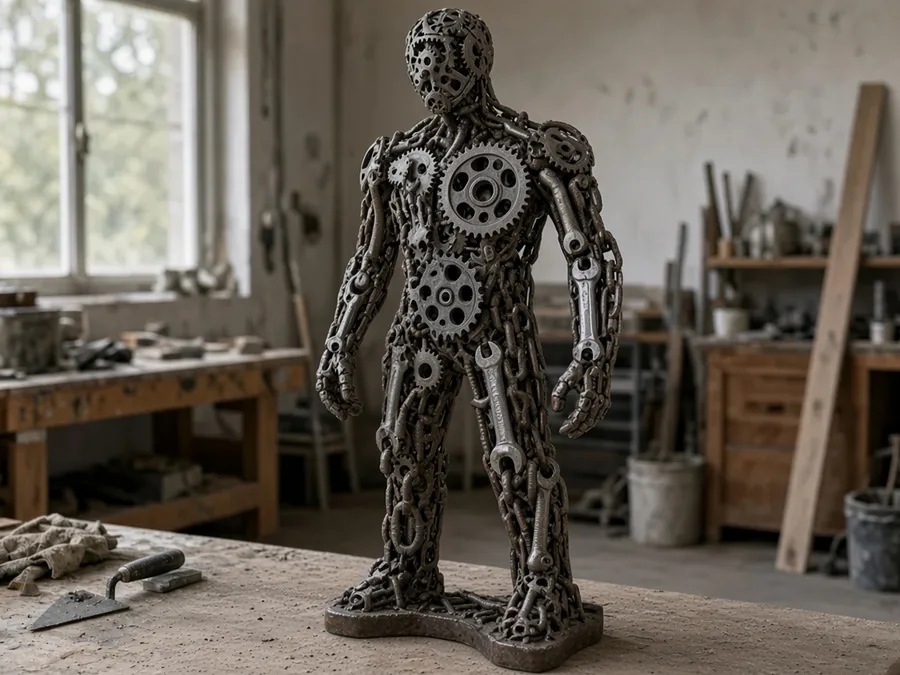
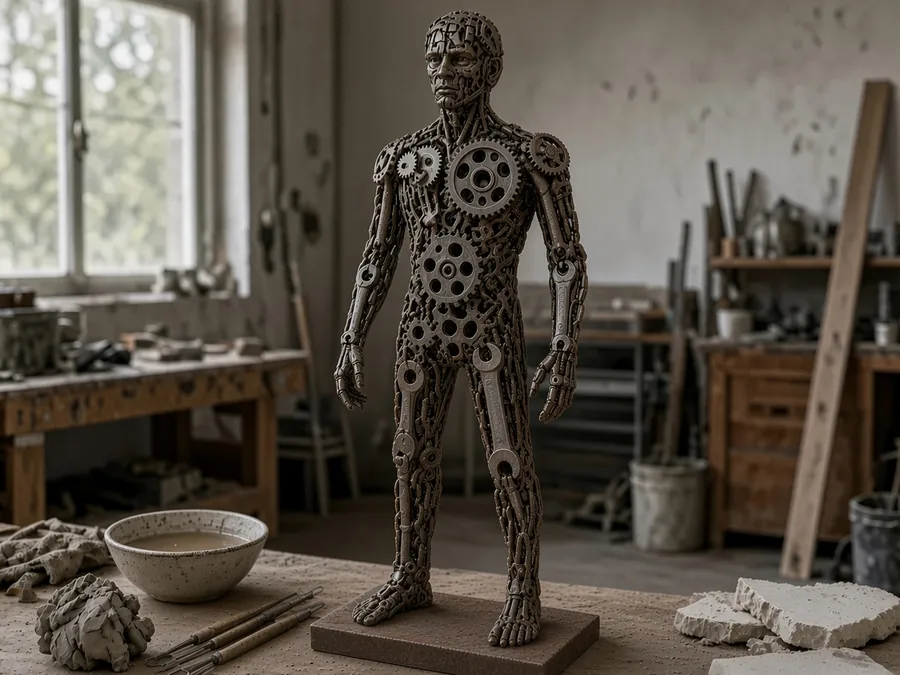
Auditoría de guías: proporciones reales y textos de material sin repetición
t46u: se revisan las 62 guías del cotizador. Se regeneran Chapa (ya no es un
robot cúbico), Chatarra, Cemento, Figura completa y Mascota, con anatomía
clásica y aspecto fotográfico de taller. Los textos de cada material quedan
únicos y breves en los 6 idiomas; la nota compartida (tejido / antióxido /
sin fundición) se muestra una sola vez en la ayuda del paso.

diff --git a/estudio-i18n-mas.js b/estudio-i18n-mas.js
@@ -251,9 +251,9 @@
       "guia.tipo_escultura:Abstracto": "Una forma abstracta o libre. El valor se consulta con el artista.",
       "guia.tipo_escultura:Objeto": "Un objeto u otra pieza que no es figura humana. El valor se consulta con el artista.",
       "guia.tipo_escultura:Otro": "Otro tipo de escultura. El valor se consulta con el artista.",
-      "guia.material_escultura:Cemento": "Cemento hueco con estructura de hierro y tejido metálico en el interior.",
-      "guia.material_escultura:Fibra": "Fibra de vidrio con estructura de hierro y tejido metálico en el interior.",
-      "guia.material_escultura:Arcilla": "Arcilla con cemento, estructura de hierro y tejido metálico en el interior.",
+      "guia.material_escultura:Cemento": "Cemento hueco con estructura de hierro.",
+      "guia.material_escultura:Fibra": "Fibra de vidrio con estructura de hierro.",
+      "guia.material_escultura:Arcilla": "Arcilla con cemento y estructura de hierro.",
       "guia.sujetos:1": "Una sola persona (ya incluida en el precio base).",
       "guia.sujetos:2": "Dos personas: se suma el valor de un sujeto extra.",
       "guia.sujetos:mascota": "Sumá una mascota junto a la persona.",
@@ -531,9 +531,9 @@
       "guia.tipo_escultura:Abstracto": "An abstract or free form. The price is agreed with the artist.",
       "guia.tipo_escultura:Objeto": "An object or another piece that is not a human figure. The price is agreed with the artist.",
       "guia.tipo_escultura:Otro": "Another kind of sculpture. The price is agreed with the artist.",
-      "guia.material_escultura:Cemento": "Hollow cement with an iron structure and metal mesh inside.",
-      "guia.material_escultura:Fibra": "Fibreglass with an iron structure and metal mesh inside.",
-      "guia.material_escultura:Arcilla": "Clay with cement, an iron structure and metal mesh inside.",
+      "guia.material_escultura:Cemento": "Hollow cement with an iron structure.",
+      "guia.material_escultura:Fibra": "Fibreglass with an iron structure.",
+      "guia.material_escultura:Arcilla": "Clay with cement and an iron structure.",
       "guia.sujetos:1": "A single person (already included in the base price).",
       "guia.sujetos:2": "Two people: the value of an extra subject is added.",
       "guia.sujetos:mascota": "Add a pet together with the person.",
@@ -811,9 +811,9 @@
       "guia.tipo_escultura:Abstracto": "Uma forma abstrata ou livre. O valor se consulta com o artista.",
       "guia.tipo_escultura:Objeto": "Um objeto ou outra peça que não é figura humana. O valor se consulta com o artista.",
       "guia.tipo_escultura:Otro": "Outro tipo de escultura. O valor se consulta com o artista.",
-      "guia.material_escultura:Cemento": "Cimento oco com estrutura de ferro e tecido metálico no interior.",
-      "guia.material_escultura:Fibra": "Fibra de vidro com estrutura de ferro e tecido metálico no interior.",
-      "guia.material_escultura:Arcilla": "Argila com cimento, estrutura de ferro e tecido metálico no interior.",
+      "guia.material_escultura:Cemento": "Cimento oco com estrutura de ferro.",
+      "guia.material_escultura:Fibra": "Fibra de vidro com estrutura de ferro.",
+      "guia.material_escultura:Arcilla": "Argila com cimento e estrutura de ferro.",
       "guia.sujetos:1": "Uma só pessoa (já incluída no preço base).",
       "guia.sujetos:2": "Duas pessoas: soma-se o valor de um sujeito extra.",
       "guia.sujetos:mascota": "Inclua um pet junto com a pessoa.",
@@ -1091,9 +1091,9 @@
       "guia.tipo_escultura:Abstracto": "Une forme abstraite ou libre. La valeur se convient avec l’artiste.",
       "guia.tipo_escultura:Objeto": "Un objet ou une autre pièce qui n’est pas une figure humaine. La valeur se convient avec l’artiste.",
       "guia.tipo_escultura:Otro": "Un autre type de sculpture. La valeur se convient avec l’artiste.",
-      "guia.material_escultura:Cemento": "Ciment creux avec une structure de fer et un treillis métallique à l’intérieur.",
-      "guia.material_escultura:Fibra": "Fibre de verre avec une structure de fer et un treillis métallique à l’intérieur.",
-      "guia.material_escultura:Arcilla": "Argile avec du ciment, une structure de fer et un treillis métallique à l’intérieur.",
+      "guia.material_escultura:Cemento": "Ciment creux avec une structure de fer.",
+      "guia.material_escultura:Fibra": "Fibre de verre avec une structure de fer.",
+      "guia.material_escultura:Arcilla": "Argile avec du ciment et une structure de fer.",
       "guia.sujetos:1": "Une seule personne (déjà incluse dans le prix de base).",
       "guia.sujetos:2": "Deux personnes : la valeur d’un sujet supplémentaire s’ajoute.",
       "guia.sujetos:mascota": "Ajoute un animal aux côtés de la personne.",
@@ -1371,9 +1371,9 @@
       "guia.tipo_escultura:Abstracto": "Una forma astratta o libera. Il valore si consulta con l’artista.",
       "guia.tipo_escultura:Objeto": "Un oggetto o un altro pezzo che non è una figura umana. Il valore si consulta con l’artista.",
       "guia.tipo_escultura:Otro": "Un altro tipo di scultura. Il valore si consulta con l’artista.",
-      "guia.material_escultura:Cemento": "Cemento cavo con struttura di ferro e rete metallica all’interno.",
-      "guia.material_escultura:Fibra": "Vetroresina con struttura di ferro e rete metallica all’interno.",
-      "guia.material_escultura:Arcilla": "Argilla con cemento, struttura di ferro e rete metallica all’interno.",
+      "guia.material_escultura:Cemento": "Cemento cavo con struttura di ferro.",
+      "guia.material_escultura:Fibra": "Vetroresina con struttura di ferro.",
+      "guia.material_escultura:Arcilla": "Argilla con cemento e struttura di ferro.",
       "guia.sujetos:1": "Una sola persona (già inclusa nel prezzo base).",
       "guia.sujetos:2": "Due persone: si aggiunge il valore di un soggetto extra.",
       "guia.sujetos:mascota": "Aggiungi un animale accanto alla persona.",
@@ -1651,9 +1651,9 @@
       "guia.tipo_escultura:Abstracto": "Eine abstrakte oder freie Form. Der Wert wird mit dem Künstler abgesprochen.",
       "guia.tipo_escultura:Objeto": "Ein Gegenstand oder ein anderes Stück, das keine menschliche Figur ist. Der Wert wird mit dem Künstler abgesprochen.",
       "guia.tipo_escultura:Otro": "Eine andere Art von Skulptur. Der Wert wird mit dem Künstler abgesprochen.",
-      "guia.material_escultura:Cemento": "Hohler Zement mit Eisenstruktur und Metallgewebe im Inneren.",
-      "guia.material_escultura:Fibra": "Glasfaser mit Eisenstruktur und Metallgewebe im Inneren.",
-      "guia.material_escultura:Arcilla": "Ton mit Zement, Eisenstruktur und Metallgewebe im Inneren.",
+      "guia.material_escultura:Cemento": "Hohler Zement mit Eisenstruktur.",
+      "guia.material_escultura:Fibra": "Glasfaser mit Eisenstruktur.",
+      "guia.material_escultura:Arcilla": "Ton mit Zement und Eisenstruktur.",
       "guia.sujetos:1": "Eine einzelne Person (bereits im Grundpreis enthalten).",
       "guia.sujetos:2": "Zwei Personen: der Wert eines zusätzlichen Motivs wird hinzugerechnet.",
       "guia.sujetos:mascota": "Füge ein Haustier zur Person hinzu.",
@@ -1894,27 +1894,27 @@ EstudioI18n.registrar({
 
 EstudioI18n.registrar({
   es: {
-    "guia.material_escultura:Chapa": "Chapa de hierro cortada, doblada y soldada, con tratamiento antióxido. No es fundición.",
-    "guia.material_escultura:Chatarra": "Ensamble soldado de objetos de chatarra (engranajes, cadenas u herramientas), con tratamiento antióxido. No es fundición."
+    "guia.material_escultura:Chapa": "Chapa de hierro cortada, doblada y soldada.",
+    "guia.material_escultura:Chatarra": "Ensamble soldado de engranajes, cadenas u herramientas."
   },
   en: {
-    "guia.material_escultura:Chapa": "Sheet steel cut, bent and welded, with rust-proof treatment. Not a casting.",
-    "guia.material_escultura:Chatarra": "A welded assemblage of scrap-metal objects (gears, chains or tools), with rust-proof treatment. Not a casting."
+    "guia.material_escultura:Chapa": "Sheet steel cut, bent and welded.",
+    "guia.material_escultura:Chatarra": "A welded assemblage of gears, chains or tools."
   },
   pt: {
-    "guia.material_escultura:Chapa": "Chapa de ferro cortada, dobrada e soldada, com tratamento antiferrugem. Não é fundição.",
-    "guia.material_escultura:Chatarra": "Conjunto soldado de objetos de sucata (engrenagens, correntes ou ferramentas), com tratamento antiferrugem. Não é fundição."
+    "guia.material_escultura:Chapa": "Chapa de ferro cortada, dobrada e soldada.",
+    "guia.material_escultura:Chatarra": "Conjunto soldado de engrenagens, correntes ou ferramentas."
   },
   fr: {
-    "guia.material_escultura:Chapa": "Tôle de fer découpée, pliée et soudée, avec traitement antirouille. Ce n’est pas une fonte.",
-    "guia.material_escultura:Chatarra": "Assemblage soudé d’objets de ferraille (engrenages, chaînes ou outils), avec traitement antirouille. Ce n’est pas une fonte."
+    "guia.material_escultura:Chapa": "Tôle de fer découpée, pliée et soudée.",
+    "guia.material_escultura:Chatarra": "Assemblage soudé d’engrenages, de chaînes ou d’outils."
   },
   it: {
-    "guia.material_escultura:Chapa": "Lamiera di ferro tagliata, piegata e saldata, con trattamento antiruggine. Non è una fusione.",
-    "guia.material_escultura:Chatarra": "Assemblaggio saldato di oggetti di rottame (ingranaggi, catene o attrezzi), con trattamento antiruggine. Non è una fusione."
+    "guia.material_escultura:Chapa": "Lamiera di ferro tagliata, piegata e saldata.",
+    "guia.material_escultura:Chatarra": "Assemblaggio saldato di ingranaggi, catene o attrezzi."
   },
   de: {
-    "guia.material_escultura:Chapa": "Zugeschnittenes, gebogenes und geschweißtes Eisenblech mit Rostschutzbehandlung. Kein Guss.",
-    "guia.material_escultura:Chatarra": "Geschweißte Anordnung aus Schrottteilen (Zahnräder, Ketten oder Werkzeuge) mit Rostschutzbehandlung. Kein Guss."
+    "guia.material_escultura:Chapa": "Zugeschnittenes, gebogenes und geschweißtes Eisenblech.",
+    "guia.material_escultura:Chatarra": "Geschweißte Anordnung aus Zahnrädern, Ketten oder Werkzeugen."
   }
 });

diff --git a/estudio-i18n.js b/estudio-i18n.js
@@ -59,9 +59,9 @@
       "escultura.peso": "Peso estimado: aprox. {n} kg",
       "escultura.material": "Material",
       "escultura.tejido": "El cemento, la fibra de vidrio y la arcilla llevan tejido metálico en el interior.",
-      "escultura.cemento": "Cemento hueco con estructura de hierro",
-      "escultura.fibra": "Fibra de vidrio con estructura de hierro",
-      "escultura.arcilla": "Arcilla con cemento con estructura de hierro",
+      "escultura.cemento": "Cemento hueco",
+      "escultura.fibra": "Fibra de vidrio",
+      "escultura.arcilla": "Arcilla con cemento",
       "escultura.chapa": "Chapa de hierro",
       "escultura.chatarra": "Objetos de chatarra",
       "escultura.hierroNota": "Piezas soldadas, con tratamiento antióxido.",
@@ -194,9 +194,9 @@
       "escultura.peso": "Estimated weight: approx. {n} kg",
       "escultura.material": "Material",
       "escultura.tejido": "Cement, fibreglass and clay include a metal mesh inside.",
-      "escultura.cemento": "Hollow cement with an iron structure",
-      "escultura.fibra": "Fibreglass with an iron structure",
-      "escultura.arcilla": "Clay with cement and an iron structure",
+      "escultura.cemento": "Hollow cement",
+      "escultura.fibra": "Fibreglass",
+      "escultura.arcilla": "Clay with cement",
       "escultura.chapa": "Sheet steel",
       "escultura.chatarra": "Scrap-metal objects",
       "escultura.hierroNota": "Welded pieces, with rust-proof treatment.",
@@ -329,9 +329,9 @@
       "escultura.peso": "Peso estimado: aprox. {n} kg",
       "escultura.material": "Material",
       "escultura.tejido": "O cimento, a fibra de vidro e a argila levam tecido metálico no interior.",
-      "escultura.cemento": "Cimento oco com estrutura de ferro",
-      "escultura.fibra": "Fibra de vidro com estrutura de ferro",
-      "escultura.arcilla": "Argila com cimento e estrutura de ferro",
+      "escultura.cemento": "Cimento oco",
+      "escultura.fibra": "Fibra de vidro",
+      "escultura.arcilla": "Argila com cimento",
       "escultura.chapa": "Chapa de ferro",
       "escultura.chatarra": "Objetos de sucata",
       "escultura.hierroNota": "Peças soldadas, com tratamento antiferrugem.",
@@ -464,9 +464,9 @@
       "escultura.peso": "Poids estimé : env. {n} kg",
       "escultura.material": "Matériau",
       "escultura.tejido": "Le ciment, la fibre de verre et l'argile comportent un treillis métallique à l'intérieur.",
-      "escultura.cemento": "Ciment creux avec structure en fer",
-      "escultura.fibra": "Fibre de verre avec structure en fer",
-      "escultura.arcilla": "Argile avec ciment et structure en fer",
+      "escultura.cemento": "Ciment creux",
+      "escultura.fibra": "Fibre de verre",
+      "escultura.arcilla": "Argile avec ciment",
       "escultura.chapa": "Tôle de fer",
       "escultura.chatarra": "Objets de ferraille",
       "escultura.hierroNota": "Pièces soudées, avec traitement antirouille.",
@@ -599,9 +599,9 @@
       "escultura.peso": "Peso stimato: circa {n} kg",
       "escultura.material": "Materiale",
       "escultura.tejido": "Il cemento, la vetroresina e l'argilla hanno una rete metallica all'interno.",
-      "escultura.cemento": "Cemento cavo con struttura in ferro",
-      "escultura.fibra": "Vetroresina con struttura in ferro",
-      "escultura.arcilla": "Argilla con cemento e struttura in ferro",
+      "escultura.cemento": "Cemento cavo",
+      "escultura.fibra": "Vetroresina",
+      "escultura.arcilla": "Argilla con cemento",
       "escultura.chapa": "Lamiera di ferro",
       "escultura.chatarra": "Oggetti di rottame",
       "escultura.hierroNota": "Pezzi saldati, con trattamento antiruggine.",
@@ -734,9 +734,9 @@
       "escultura.peso": "Geschätztes Gewicht: ca. {n} kg",
       "escultura.material": "Material",
       "escultura.tejido": "Zement, Glasfaser und Ton haben innen ein Metallgewebe.",
-      "escultura.cemento": "Hohler Zement mit Eisenstruktur",
-      "escultura.fibra": "Glasfaser mit Eisenstruktur",
-      "escultura.arcilla": "Ton mit Zement und Eisenstruktur",
+      "escultura.cemento": "Hohler Zement",
+      "escultura.fibra": "Glasfaser",
+      "escultura.arcilla": "Ton mit Zement",
       "escultura.chapa": "Eisenblech",
       "escultura.chatarra": "Schrottteile",
       "escultura.hierroNota": "Geschweißte Stücke mit Rostschutzbehandlung.",

diff --git a/estudio-datos.js b/estudio-datos.js
@@ -39,11 +39,11 @@ window.ESTUDIO_GUIAS_DEFAULT = { items: {
   "tipo_escultura:Abstracto": { url: "img/guias/escultura-abstracto.webp", text: "Una forma abstracta o libre. El valor se consulta con el artista.", kind: "foto" },
   "tipo_escultura:Objeto": { url: "img/guias/escultura-objeto.webp", text: "Un objeto u otra pieza que no es figura humana. El valor se consulta con el artista.", kind: "foto" },
   "tipo_escultura:Otro": { url: "img/guias/escultura-otro.webp", text: "Otro tipo de escultura. El valor se consulta con el artista.", kind: "foto" },
-  "material_escultura:Cemento": { url: "img/guias/escultura-material-cemento.webp", text: "Cemento hueco con estructura de hierro y tejido metálico en el interior.", kind: "foto" },
-  "material_escultura:Fibra": { url: "img/guias/escultura-material-fibra.webp", text: "Fibra de vidrio con estructura de hierro y tejido metálico en el interior.", kind: "foto" },
-  "material_escultura:Arcilla": { url: "img/guias/escultura-material-arcilla.webp", text: "Arcilla con cemento, estructura de hierro y tejido metálico en el interior.", kind: "foto" },
-  "material_escultura:Chapa": { url: "img/guias/escultura-material-chapa.webp", text: "Chapa de hierro cortada, doblada y soldada, con tratamiento antióxido. No es fundición.", kind: "foto" },
-  "material_escultura:Chatarra": { url: "img/guias/escultura-material-chatarra.webp", text: "Ensamble soldado de objetos de chatarra (engranajes, cadenas u herramientas), con tratamiento antióxido. No es fundición.", kind: "foto" },
+  "material_escultura:Cemento": { url: "img/guias/escultura-material-cemento.webp", text: "Cemento hueco con estructura de hierro.", kind: "foto" },
+  "material_escultura:Fibra": { url: "img/guias/escultura-material-fibra.webp", text: "Fibra de vidrio con estructura de hierro.", kind: "foto" },
+  "material_escultura:Arcilla": { url: "img/guias/escultura-material-arcilla.webp", text: "Arcilla con cemento y estructura de hierro.", kind: "foto" },
+  "material_escultura:Chapa": { url: "img/guias/escultura-material-chapa.webp", text: "Chapa de hierro cortada, doblada y soldada.", kind: "foto" },
+  "material_escultura:Chatarra": { url: "img/guias/escultura-material-chatarra.webp", text: "Ensamble soldado de engranajes, cadenas u herramientas.", kind: "foto" },
   "sujetos:1": { url: "img/guias/sujetos-1.webp", text: "Una sola persona (ya incluida en el precio base).", kind: "foto" },
   "sujetos:2": { url: "img/guias/sujetos-2.webp", text: "Dos personas: se suma el valor de un sujeto extra.", kind: "foto" },
   "sujetos:mascota": { url: "img/guias/mascota.webp", text: "Sumá una mascota junto a la persona.", kind: "foto" },

diff --git a/index.html b/index.html
@@ -387,9 +387,9 @@
 <label for="material_escultura" id="label-material-escultura" data-i18n="escultura.material">Material</label>
 <select id="material_escultura" aria-describedby="nota-tejido-metalico error-material_escultura" onchange="onMaterialEsculturaChange();">
 <option disabled="" selected="" value="" data-i18n-option="opt.material.ph">Seleccioná el material...</option>
-<option value="Fibra" data-i18n-option="escultura.fibra">Fibra de vidrio con estructura de hierro</option>
-<option value="Cemento" data-i18n-option="escultura.cemento">Cemento hueco con estructura de hierro</option>
-<option value="Arcilla" data-i18n-option="escultura.arcilla">Arcilla con cemento con estructura de hierro</option>
+<option value="Fibra" data-i18n-option="escultura.fibra">Fibra de vidrio</option>
+<option value="Cemento" data-i18n-option="escultura.cemento">Cemento hueco</option>
+<option value="Arcilla" data-i18n-option="escultura.arcilla">Arcilla con cemento</option>
 <option value="Chapa" data-i18n-option="escultura.chapa">Chapa de hierro</option>
 <option value="Chatarra" data-i18n-option="escultura.chatarra">Objetos de chatarra</option>
 </select>

diff --git a/cotizador-asistente.js b/cotizador-asistente.js
@@ -220,7 +220,7 @@
         { value: 'Arcilla', key: 'material_escultura:Arcilla', title: i18n('escultura.arcilla'), hierro:false },
         { value: 'Chapa', key: 'material_escultura:Chapa', title: i18n('escultura.chapa'), hierro:true },
         { value: 'Chatarra', key: 'material_escultura:Chatarra', title: i18n('escultura.chatarra'), hierro:true }
-      ].map((o) => ({ ...o, text: (o.hierro?i18n('escultura.hierroNota'):i18n('escultura.tejido')) + ' ' + textoGuia(o.key), url: guia(o.key).url, selected: valor('material_escultura') === o.value }));
+      ].map((o) => ({ ...o, text: textoGuia(o.key), url: guia(o.key).url, selected: valor('material_escultura') === o.value }));
     }
     if (paso.id === 'estilo_mural') {
       return [
